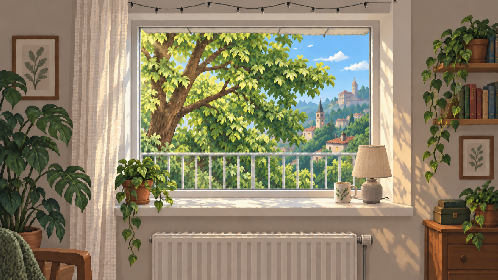
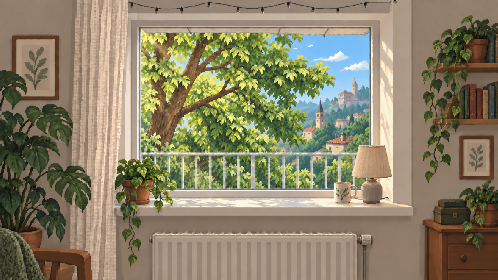
Keep sunlight and shadows only where light can reach in the room
The wall, curtain and room-facing strip of the window recess lose the sun's beams and leaf shadows, split along their real edges instead of boxes, while the lit jamb, sill top and sill plant keep them. At sunset the sill also loses the railing's stripes. The cat's shadow stays on the ledge's top surface.

diff --git a/src/scene.js b/src/scene.js
@@ -204,9 +204,10 @@ function paintCat(g, on, pal, ox = 0, oy = 0, side = 0) {
 }
 
 // A flat two-tone shadow on the ledge, in a dusky violet rather than black: a thin contact shadow hugging the cat's base, and a cast shadow stretched away from the main light ([dx, dy, strength], see shadowOf), darker near the cat and paler further out.
-function paintShadow(g, [dx, dy, s], ox, oy, k) {
+function paintShadow(g, [dx, dy, s], ox, oy, k, [top, bottom]) {
   const len = 10 * s, cx = 8.5 + (dx * len) / 2, cy = GROUND - 0.5 + 0.6 * s * dy, rx = 4.8 + (len / 2) * Math.abs(dx), ry = 1.3 + 0.6 * s * Math.abs(dy);
-  for (let py = (GROUND - 3) * k; py < (GROUND + 3) * k; py++)
+  // Only the ledge's top surface takes the shadow: its front faces the room, away from the light.
+  for (let py = Math.max(top, (GROUND - 3) * k); py < Math.min(bottom, (GROUND + 3) * k); py++)
     for (let px = -PAD * k; px < CAT_W * k; px++) {
       const x = (px + 0.5) / k, y = (py + 0.5) / k, near = Math.hypot(Math.max(0, Math.abs(x - 8.5) - 4.3), y - GROUND);
       const contact = ((x - 8.5) / 5.2) ** 2 + ((y - GROUND + 0.1) / 0.7) ** 2 < 1, cast = ((x - cx) / rx) ** 2 + ((y - cy) / ry) ** 2 < 1;
@@ -361,7 +362,9 @@ export class Scene {
     };
     const fur = whiteFur(ledgeLight(cat[0] - 12 * k, cat[0] + 12 * k), spot.albedo), side = shadow[2] > 0.3 && Math.abs(shadow[0]) > 0.3 ? -Math.sign(shadow[0]) : 0;
     const x0 = cat[0] + (side > 0 ? 12 : -44) * k, litFur = side ? whiteFur(ledgeLight(x0, x0 + 32 * k), spot.albedo, 1) : fur;
-    this.scenes[key] = { tex, glow, fx, tint, fur, litFur, side, shadow, cat, rect, win, pose: spot.hang ? 1 : 0, ledge: [top, depth], top: `#${sky0.map((v) => Math.round(v).toString(16).padStart(2, '0')).join('')}` };
+    // The ledge's top surface in sprite rows, where shadows can fall.
+    const surface = [top - rect[1], top + depth - rect[1]];
+    this.scenes[key] = { tex, glow, fx, tint, fur, litFur, side, shadow, surface, cat, rect, win, pose: spot.hang ? 1 : 0, ledge: [top, depth], top: `#${sky0.map((v) => Math.round(v).toString(16).padStart(2, '0')).join('')}` };
   }
 
   // Scene positions are given on the 249-wide base grid; finer art scales them by k.
@@ -385,12 +388,12 @@ export class Scene {
     this.start = instant ? -Infinity : performance.now() / 1000;
   }
 
-  drawCat(t, fur, litFur, side, sky, shadow) {
+  drawCat(t, fur, litFur, side, sky, shadow, surfaces) {
     const pal = catPalette(fur, litFur, sky), k = this.k === 2 ? 2 : 1;
     if (t > this.twitch + 0.18 && Math.random() < 0.003) this.twitch = t;
     this.cat2d.clearRect(0, 0, this.catCanvas.width, this.catCanvas.height);
     for (const hang of [false, true]) {
-      paintShadow(this.cat2d, shadow, PAD * k, hang * CAT_H * k, k);
+      if (surfaces[+hang]) paintShadow(this.cat2d, shadow, PAD * k, hang * CAT_H * k, k, surfaces[+hang]);
       paintCat(this.cat2d, catPixels(t, t - this.twitch < 0.18, k, hang), pal, PAD * k, hang * CAT_H * k, side);
     }
   }
@@ -402,7 +405,7 @@ export class Scene {
     this.mix = ease(Math.min(1, (t - this.start) / DUR));
     const [w, h] = this.art, e = this.mix * this.mix * (3 - 2 * this.mix);
 
-    this.drawCat(t, lerp(A.fur, B.fur, e), lerp(A.litFur, B.litFur, e), (e < 0.5 ? A : B).side, lerp(A.tint, B.tint, e), lerp(A.shadow, B.shadow, e));
+    this.drawCat(t, lerp(A.fur, B.fur, e), lerp(A.litFur, B.litFur, e), (e < 0.5 ? A : B).side, lerp(A.tint, B.tint, e), lerp(A.shadow, B.shadow, e), { [A.pose]: A.surface, [B.pose]: B.surface });
     gl.activeTexture(gl.TEXTURE2);
     gl.bindTexture(gl.TEXTURE_2D, this.catTex);
     gl.texImage2D(gl.TEXTURE_2D, 0, gl.RGBA, gl.RGBA, gl.UNSIGNED_BYTE, this.catCanvas);

diff --git a/art/snap.py b/art/snap.py
@@ -88,6 +88,34 @@ def cool_face(warm_path, cool_path, top):
     print(f'{warm_path}: cooled {int(stone.sum())} face pixels')
 
 
+def no_sun(sun_path, shade_path, regions):
+    """Take direct sunlight off surfaces it cannot reach: the wall around a window faces into the room, and light through the glass travels away from it.
+
+    Each region (a boolean mask) is replaced by the overcast scene tinted to the sunny scene's average colour there, so it keeps the warm light but loses the beams and leaf shadows.
+    """
+    sun = np.asarray(Image.open(sun_path).convert('RGB'), np.float32)
+    shade = np.asarray(Image.open(shade_path).convert('RGB'), np.float32)
+    for m in regions:
+        sun[m] = np.clip(shade[m] * sun[m].mean(0) / np.maximum(shade[m].mean(0), 1), 0, 255)
+    Image.fromarray(sun.astype(np.uint8)).save(sun_path)
+    print(f'{sun_path}: took sunlight off {sum(int(m.sum()) for m in regions)} pixels')
+
+
+def room_surfaces(shade_path):
+    """Split the room along its real edges into the window recess, the sill top and the potted plant on it, which sunlight through the glass reaches, and everything else, which faces into the room.
+
+    The recess stops at the lit side of the right jamb; its outer strip, the left jamb and the curtain face the room.
+    The sill top runs out under that strip to a slanted edge, told apart by its brighter paint.
+    """
+    c = np.asarray(Image.open(shade_path).convert('RGB'), np.int16)
+    y, x = np.mgrid[:c.shape[0], :c.shape[1]]
+    r, g, b = c[..., 0], c[..., 1], c[..., 2]
+    plant = (x >= 105) & (x < 190) & (y >= 145) & ((g > b + 12) | (r > b + 40) | (c.sum(2) < 210))
+    sill = (y >= 198) & (y <= 206) & (x >= 115) & (x <= 412) & ((x < 393) | (c.mean(2) > 145)) & ~plant
+    recess = (x >= 137) & (x < 393) & (y >= 2) & (y <= 206)
+    return ~(recess | sill | plant), sill
+
+
 def wire_path(base_path, k=1):
     """Fit the bulb wire's sag as a parabola from its darkest pixels in the base scene."""
     a = np.asarray(Image.open(base_path).convert('RGB'), np.float32).mean(2)
@@ -183,6 +211,10 @@ if __name__ == '__main__':
         dry_face(assets / f'{wet}.png', assets / f'{dry}.png', 108 * k)
     cool_face(assets / 'rain-evening.png', assets / 'rain-night.png', 108 * k)
     repaint_moon(assets / 'sun-night.png', k)
+    wall, sill = room_surfaces(assets / 'room-cloud-day.png')
+    no_sun(assets / 'room-sun-day.png', assets / 'room-cloud-day.png', [wall])
+    # At sunset the sill also loses the railing's stripes, which read as noise.
+    no_sun(assets / 'room-sun-evening.png', assets / 'room-cloud-evening.png', [wall, sill])
     wire = wire_path(assets / 'rain-day.png', k)
     for png in sorted(assets.glob('*.png')):
         if not png.stem.startswith('room-'):
